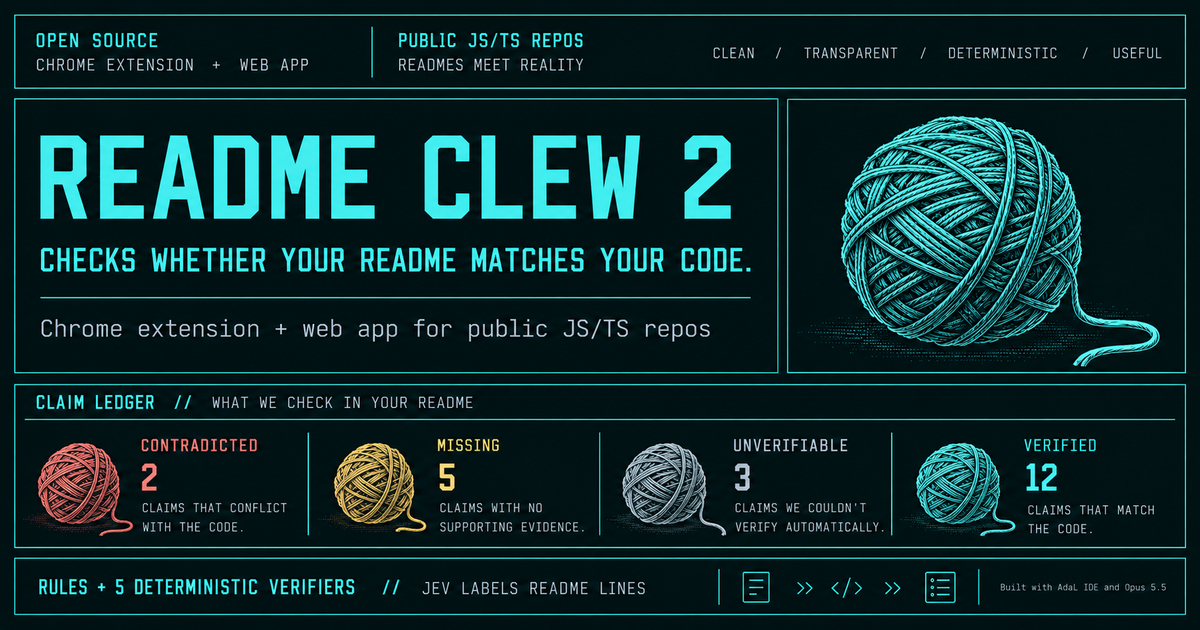
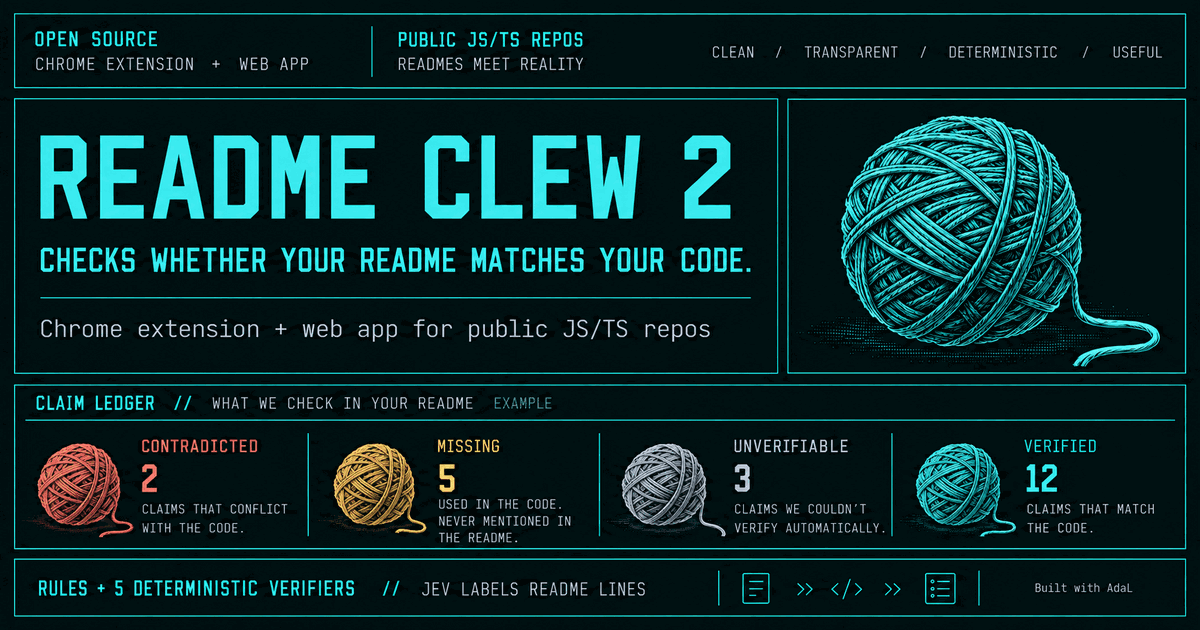
Social card text fixes, PRD v1.3, build log close

diff --git a/PRD.md b/PRD.md
@@ -1,7 +1,7 @@
 # README Clew 2 - PRD
 
-**Version:** 1.2 (Oct 8, 2026: Block 0 spike results applied)
-**Changelog:** v1.0 approved Oct 7. v1.1 Oct 7: owner added M21 (Praxi Clew-style receipt). Successor projects confirmed allowed. v1.2 Oct 8: spike results (LEDGER.md, Block 0). Glasser caps a call at 100 questions, so Jev runs in batches. Pinning the model does not guarantee identical labels. Gate threshold moves to Block 2 and applies only to verifier-bound labels. Vercel Hobby rate rule confirmed. Q4 resolved.
+**Version:** 1.3 (Oct 10, 2026: build-time decisions recorded)
+**Changelog:** v1.0 approved Oct 7. v1.1 Oct 7: owner added M21 (Praxi Clew-style receipt). Successor projects confirmed allowed. v1.2 Oct 8: spike results (LEDGER.md, Block 0). Glasser caps a call at 100 questions, so Jev runs in batches. Pinning the model does not guarantee identical labels. Gate threshold moves to Block 2 and applies only to verifier-bound labels. Vercel Hobby rate rule confirmed. Q4 resolved. v1.3 Oct 10: decisions made during the build, recorded here so the spec matches what shipped. Haiku is Claude Haiku 5.5 (`claude-haiku-5-5`). The social card is one static image, not a per-repo `/api/og` card. The badge (M19) is a STUB: with no storage, every badge view would re-scan and bill the owner. The demo video (M16) is dropped: the submission form does not require one, and screenshots replace it. The scan field starts blank; USE DEMO REPO fills the demo (M10). The clew mascot is raster art generated with ChatGPT by the owner, replacing hand-made SVG. Monorepo workspaces come from pnpm-workspace.yaml and package.json workspaces (Block 5a). Not-a-JS/TS repos are refused before any Jev call. Ship-by moved to Sun Oct 11, 6 PM PT.
 **Owner:** La Shara Cordero
 **Hackathon:** AdaL "What Would Jev Do?" (Oct 6-11, 2026)
 **Repo:** `readme-clew-2` (new repo, all code written this week)
@@ -44,7 +44,7 @@ Done is not:    Chrome Web Store listing        -> STUB
                 Firefox version                 -> STUB
                 Private repos                   -> NEVER in v1
 
-Ship by:        Sat Oct 10, 8 PM PT (deadline Sun Oct 11, 11:59 PM PT)
+Ship by:        Sun Oct 11, 6 PM PT (deadline Sun Oct 11, 11:59 PM PT). Moved from Sat 8 PM in v1.3
 ```
 
 When the done line is met, the build stops. Anything else goes to STUB.
@@ -92,17 +92,17 @@ README Clew 2 is a rebuild from scratch that fixes both by changing who decides 
 | M7 | Four buckets: Verified, Unverifiable, Missing, Contradicted. Each finding shows the README line, the code evidence, and confidence |
 | M8 | Haiku writes a summary line plus one note per bucket, from structured findings only. Fail-open |
 | M9 | Mascot (original yarn-ball clew) in popup and on the live page. Speech bubble, mood, head tilt (section 5) |
-| M10 | Live web page on Vercel with `?repo=` deep links and a pre-filled demo repo |
+| M10 | Live web page on Vercel with `?repo=` deep links and a USE DEMO REPO button (field starts blank, v1.3) |
 | M11 | Chrome extension (Manifest V3): popup scans the repo in the current tab |
 | M12 | Bookmarklet that opens the live page with the current repo filled in |
 | M13 | GitHub release with the extension ZIP and load-unpacked instructions |
 | M14 | One Vercel function holds all keys, validates input, rate-limits, times out |
 | M15 | Report output as specified in section 3b, including links to the exact README line on GitHub |
-| M16 | Demo video made with AdaL Video Producer, under 2 minutes |
+| M16 | ~~Demo video made with AdaL Video Producer~~ Dropped in v1.3: not required by the submission form; screenshots replace it |
 | M17 | "Try it" section in the README with judge install steps (section 6) |
 | M18 | JSON export: "Download JSON" button saves the report object (3b) as a file. Built in the browser, nothing stored |
-| M19 | Status badge: `/api/badge?repo=owner/name` returns an SVG with the four counts. Embeddable in any README (section 3d) |
-| M20 | Social card: `/api/og?repo=owner/name` returns a 1200x630 PNG with repo name, counts, and the clew's mood. The `?repo=` page links use it as their preview image (section 3d) |
+| M19 | STUB (v1.3). Status badge: `/api/badge?repo=owner/name`. Not built: with no storage, every view would re-scan and bill the owner's keys |
+| M20 | Social card: one static 1200x630 PNG (`web/social-card.png`) with og and twitter tags (v1.3, replaces the per-repo `/api/og` card) |
 | M21 | Scan receipt in every report, plus a build-week usage report of every real Jev and Haiku call (section 3e) |
 
 ### STUB (comment stubs with implementation notes, not built)
@@ -447,7 +447,7 @@ An original ball of thread with a loose end. Not based on any existing character
 | Mood: calm | Verifiers | Everything else |
 | Head tilt | Jev | Any low-confidence finding |
 
-Poses are hand-made SVG states. No generated art at runtime.
+Poses are raster images (v1.3): generated with ChatGPT by the owner, cut out by Claude. No generated art at runtime.
 
 ---
 
@@ -455,7 +455,7 @@ Poses are hand-made SVG states. No generated art at runtime.
 
 | Route | How | For |
 |---|---|---|
-| Live page | Vercel URL with a demo repo pre-filled | Judges with no install. Listed first everywhere |
+| Live page | Vercel URL with a USE DEMO REPO button | Judges with no install. Listed first everywhere |
 | Load unpacked | GitHub release ZIP, `chrome://extensions`, Developer mode, Load unpacked | Judges, devs |
 | Bookmarklet | Drag to bookmarks bar. Opens live page with `?repo=` | Everyone else, any browser |
 
@@ -674,7 +674,7 @@ Runs the whole pipeline on every fixture, twice:
 | Jev (pinned jev-1.13.0, via Glasser) | Line labels, name picks | Pinned so labels don't shift mid-week |
 | AdaL Video Producer | Demo video | Built into AdaL, loads on request |
 | Glasser | Paid access to Jev, $11 credit | `POST https://api.glasser.ai/v1/runs`, provider `typesafe`, endpoint `/v1/systemone`. Max 100 questions per call, 45 s deadline, failed runs charge $0. Also eligible for "Best use of Glasser" |
-| Claude Haiku 4.5 | Summary | Confirm model id is current before Block 4 |
+| Claude Haiku 5.5 (`claude-haiku-5-5`) | Summary | Confirmed with GET /v1/models in Block 4 |
 | Vercel (Hobby) | Live page + function | 300 s max duration, 2 GB memory |
 | Chrome MV3 | Extension | Current extension platform |
 | TypeSafe agent skill | Teaches AdaL Jev patterns | Try `@skills:gh:typesafe-ai/skills/skills/typesafe-ai`. Not in AdaL's docs, so fallback: copy SKILL.md into `.adal/skills/typesafe-ai/` |

diff --git a/BUILD-LOG.md b/BUILD-LOG.md
@@ -262,3 +262,12 @@ Tests: 452 total, 452 pass, 0 fail. Real-Chrome QA (Chrome 155, unpacked, mocked
 - Submission ZIP built from git archive of main, not committed.
 
 Tests: 464 total, 464 pass, 0 fail.
+
+## Close (logged by Claude, architect)
+
+Oct 10, 2026, 10:26 PM PT
+
+1. AdaL mapped an HTTP 403 from /api/scan to the rate-limit message ("TOO MANY SCANS"), because the Vercel Hobby firewall can only Deny with 403. Commit a48ccf7, deployed to production. Extension ZIP on release v0.1.0 replaced; source ZIP rebuilt.
+2. Final suite: 465 tests, 465 pass, 0 fail.
+3. Self-scan of this repo through production: 0 Contradicted, 0 Missing.
+4. Build closed. Remaining work is docs and submission.
